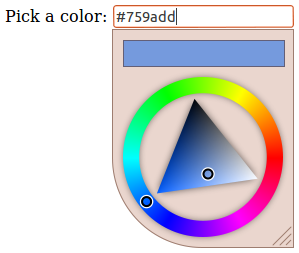
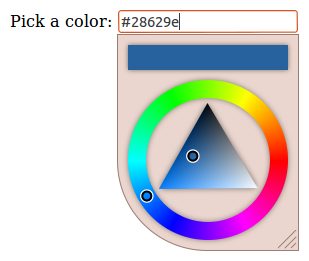
Updated screenshots

diff --git a/docs-src/overview/screenshots.html b/docs-src/overview/screenshots.html
@@ -10,28 +10,62 @@ $html .= '<h2>Color Picker Screenshots</h2>';
 $html .= '<ul data-role="listview" data-inset="true">';
 
 $html .= '<li>';
-$html .= '<h3>Basic color picker usage. Inline mode, with all default options.</h3><br/>';
+$html .= '<h3>Basic color picker usage, all default options.</h3><br/>';
 $html .= '<p><img style="border: 1px dotted #ccc;" alt="screenshot of color picker with default options" src="../screenshots/1.png" /></p>';
 $html .= '</li>';
 
 $html .= '<li>';
-$html .= '<h3>Inline mode, small, non-resizable.</h3><br/>';
+$html .= '<h3>Output: RGBA string</h3>
+        <h3>Alpha selection: true</h3>
+        <h3>Resizable: false</h3>
+        <h3>Width: 130px</h3>
+        <br />';
 $html .= '<p><img style="border: 1px dotted #ccc;" alt="screenshot of non-resizable color picker" src="../screenshots/2.png" /></p>';
 $html .= '</li>';
 
 $html .= '<li>';
-$html .= '<h3>Static mode, color preview in input element.</h3><br/>';
+$html .= '<h3>Static mode</h3>
+		<h3>Color preview in input element</h3><br/>';
 $html .= '<p><img style="border: 1px dotted #ccc;" alt="screenshot of color picker in static mode" src="../screenshots/3.png" /></p>';
 $html .= '</li>';
 
 $html .= '<li>';
-$html .= '<h3>Sample integration with jQuery-UI dialog.<br/>External controls in side panel with multiple color modes.</h3><br/>';
-$html .= '<p><img style="border: 1px dotted #ccc;" alt="screenshot of color picker in jquery-ui dialog" src="../screenshots/4.jpg" /></p>';
+$html .= '<h3>Output: HSLA string</h3>
+        <h3>Alpha selection: true</h3>
+        <h3>Side panel: true</h3><br/>';
+$html .= '<p><img style="border: 1px dotted #ccc;" alt="screenshot of color picker in jquery-ui dialog" src="../screenshots/4.png" /></p>';
+$html .= '</li>';
+
+$html .= '<li>';
+$html .= '<h3>Preview in INPUT element</h3>
+        <h3>Width: 260px</h3>
+        <h3>Resizable: false</h3>
+        <h3>Side panel: true</h3>
+        <h3>Side panel mode: CMYK only</h3><br/>';
+$html .= '<p><img style="border: 1px dotted #ccc;" alt="screenshot of color picker in jquery-mobile dialog" src="../screenshots/5.png" /></p>';
+$html .= '</li>';
+$html .= '<li>';
+$html .= '<h3>Dark theme</h3>
+        <h3>Resizable: false</h3>
+        <h3>Width: 130px</h3><br/>';
+$html .= '<p><img style="border: 1px dotted #ccc;" alt="screenshot of color picker in jquery-mobile dialog" src="../screenshots/6.png" /></p>';
+$html .= '</li>';
+
+$html .= '<li>';
+$html .= '<h3>Preview in INPUT element</h3>
+        <h3>Custom INPUT element styling</h3>
+        <h3>Square corners</h3><br/>';
+$html .= '<p><img style="border: 1px dotted #ccc;" alt="screenshot of color picker in jquery-mobile dialog" src="../screenshots/7.png" /></p>';
 $html .= '</li>';
 
 $html .= '<li>';
 $html .= '<h3>Sample integration with jQuery-mobile dialog.</h3><br/>';
-$html .= '<p><img style="border: 1px dotted #ccc;" alt="screenshot of color picker in jquery-mobile dialog" src="../screenshots/5.jpg" /></p>';
+$html .= '<p><img style="border: 1px dotted #ccc;" alt="screenshot of color picker in jquery-mobile dialog" src="../screenshots/8.png" /></p>';
+$html .= '</li>';
+
+$html .= '<li>';
+$html .= '<h3>Sample integration with jQuery UI dialog.</h3><br/>';
+$html .= '<p><img style="border: 1px dotted #ccc;" alt="screenshot of color picker in jquery-ui dialog" src="../screenshots/9.jpg" /></p>';
 $html .= '</li>';
 
 $html .= '</ul>';

diff --git a/chromoselector.js b/chromoselector.js
@@ -6,26 +6,25 @@
      * TODO
      *
      * v 2.0.0
-     *   Update docs: screenshots
      *
      * v 2.0.1
      *   Fix Opera v12- support
      *   Fix multiple pickers in static mode demo
      *
      * v 2.1.0
-     *   Improve positioning in small window (move right if necessary)
+     *   Improve positioning in small window (move right or up, if necessary)
      *   Implement RequestAnimationFrame
-     *   Better generation of new elements
      *   Improve shadow ratio calculation / shadow rendering
      *   Shrink more vars with replacevars.pl
      *
      * v 3.0.0
-     *   Camel-case all properties
      *   Fix slide animation
      *   More unit tests
-     *   Faster shadow - rotate instead of blurring
      *   refactor hue2rgb
      *   Improved mobile support
+     *   Better generation of new elements
+     *   Camel-case all properties
+     *   Faster shadow - rotate instead of blurring
      *
      * FI-TESTSUITE
      */

diff --git a/docs-src/demos/custom-color-format.html b/docs-src/demos/custom-color-format.html
@@ -7,6 +7,13 @@ $html  = getHeader('..', 'custom-color-format', 'Documentation / Demos / Custom 
 $html .= '<div class="content-primary">';
 $html .= '<form action="#" method="get">';
 $html .= '<h2>Custom Color Formats</h2>';
+$html .= '<p>If you would like to use the HEX format with a leading hash, you
+don\'t need to do anything as it\'s the default (example 1).</p>';
+$html .= '<p>If you would like to use a format that is known to chromoselector, 
+you just need to implement the &quot;color2str&quot; function (examples 2-5). For a full list of supported format, please see the <a href="../api/color-manipulation.html">color manipulation page</a></p>';
+$html .= '<p>If you would like to use a custom format, you will need to implement
+both the &quot;color2str&quot; and &quot;str2color&quot; functions (examples 6-8).
+</p>';
 
 $template  = '<div data-role="collapsible" data-collapsed="false"';
 $template .= ' data-theme="b" data-content-theme="d"';

diff --git a/docs-src/demos/ui-dialog.html b/docs-src/demos/ui-dialog.html
@@ -12,7 +12,7 @@ $html .= '<div data-role="collapsible" data-collapsed="false"';
 $html .= ' data-theme="b" data-content-theme="d"';
 $html .= ' data-collapsed-icon="arrow-r" data-expanded-icon="arrow-d">';
 $html .= '<h3>jQuery UI dialog integration</h3>';
-$html .= '<p><img src="screenshot.jpg" alt="" /></p>';
+$html .= '<p><img src="../screenshots/9.jpg" alt="" /></p>';
 $html .= '<a data-role="button" data-theme="c" href="http://sandbox.chromoselector.com/2Z7Eg/embedded/result,js,html,css/">jsFiddle: Single color picker</a>';
 $html .= '<a data-role="button" data-theme="c" href="http://sandbox.chromoselector.com/JjgAu/embedded/result,js,html,css/">jsFiddle: Multiple color pickers</a>';
 $html .= '<a data-role="button" data-theme="c" href="http://sandbox.chromoselector.com/u6ScA/embedded/result,js,html,css/">jsFiddle: Multiple resizable color pickers</a>';

diff --git a/docs-src/api/properties.html b/docs-src/api/properties.html
@@ -32,7 +32,7 @@ $properties = array(
         'default' => '<i>true</i>',
         'description' => 'Whether to automatically update the value in the source text'
                     . ' input when the user selects a new color. In you set this to false, '
-                    . 'you will need to manually invoke the "save" method on the chromoselector object'
+                    . 'you will need to manually invoke the "save" method on the chromoselector object '
                     . 'when you would like for the color to be saved.',
         'values' => '<i>true</i> or <i>false</i>',
         'samples' => array(

diff --git a/docs-src/demos/mobile-dialog.html b/docs-src/demos/mobile-dialog.html
@@ -12,7 +12,7 @@ $html .= '<div data-role="collapsible" data-collapsed="false"';
 $html .= ' data-theme="b" data-content-theme="d"';
 $html .= ' data-collapsed-icon="arrow-r" data-expanded-icon="arrow-d">';
 $html .= '<h3>jQuery Mobile dialog</h3>';
-$html .= '<p><img src="../screenshots/5.jpg" alt="" /></p>';
+$html .= '<p><img src="../screenshots/8.png" alt="" /></p>';
 $html .= '<a data-role="button" data-theme="c" href="http://sandbox.chromoselector.com/uAGgm/embedded/result,js,html,css/">jsFiddle: Resizable color picker in mobile dialog</a>';
 $html .= '</div>';
 $html .= '</form>';
